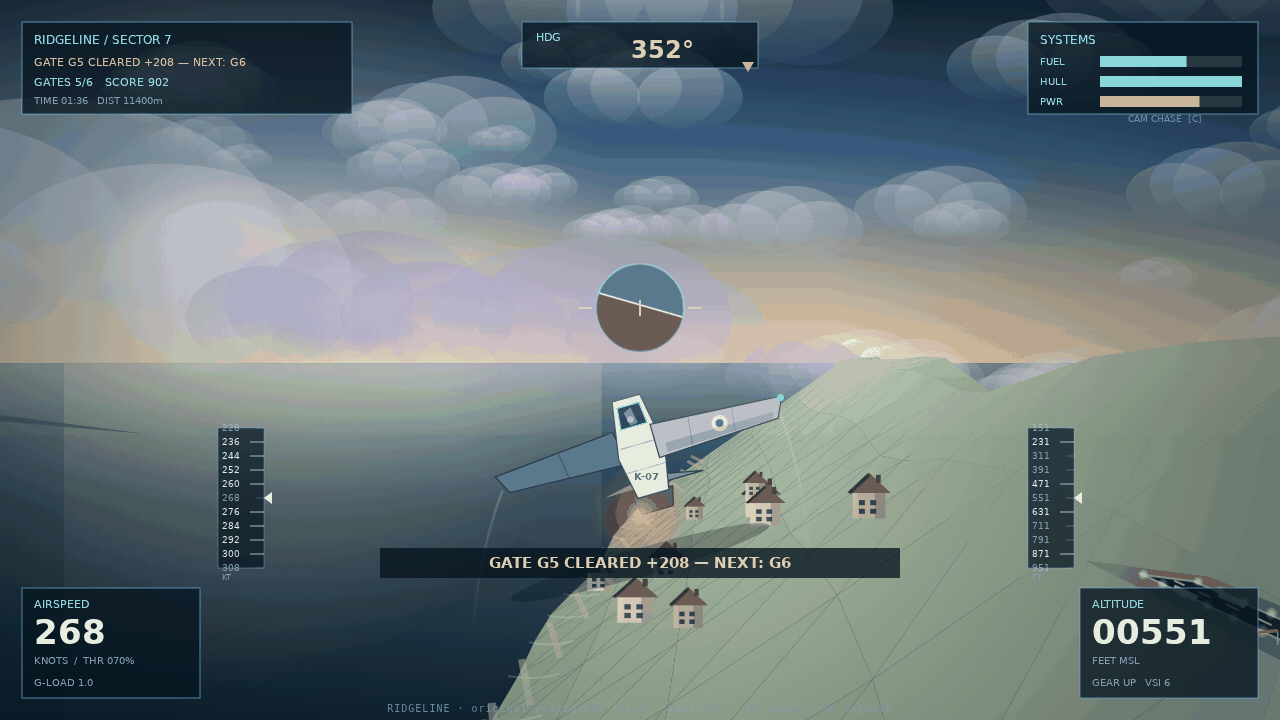
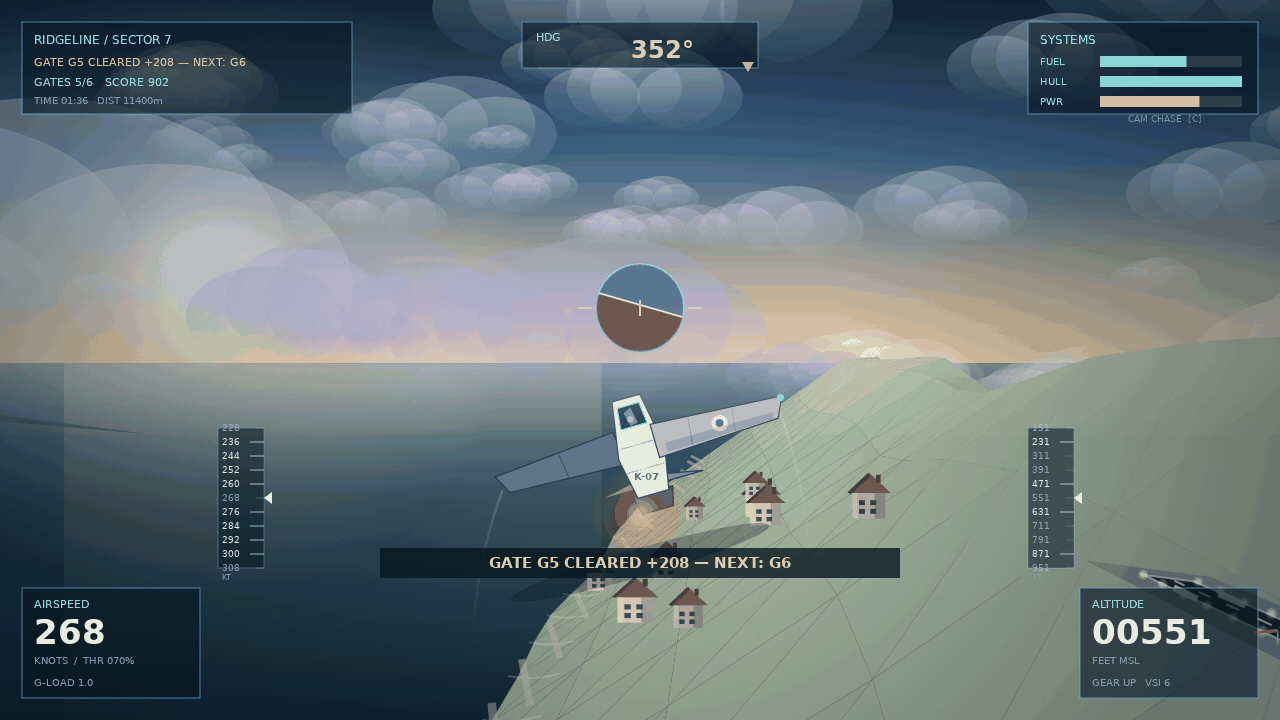
shots: sun bloom lebih kecil, footer disembunyikan, sudut gate digeser

diff --git a/game/src/atmosphere.js b/game/src/atmosphere.js
@@ -49,15 +49,15 @@ export function paintAtmosphereBack(ctx, project, width, height, cam, tod) {
   // Bloom and disc, added rather than painted so the sky brightens under it.
   ctx.save();
   ctx.globalCompositeOperation = 'lighter';
-  const bloom = ctx.createRadialGradient(sun.x, sun.y, 4, sun.x, sun.y, 420);
-  bloom.addColorStop(0, tod > 0.7 ? 'rgba(255,196,150,0.85)' : 'rgba(255,244,214,0.9)');
-  bloom.addColorStop(0.25, 'rgba(255,214,158,0.28)');
+  const bloom = ctx.createRadialGradient(sun.x, sun.y, 4, sun.x, sun.y, 330);
+  bloom.addColorStop(0, tod > 0.7 ? 'rgba(255,196,150,0.55)' : 'rgba(255,244,214,0.6)');
+  bloom.addColorStop(0.3, 'rgba(255,214,158,0.18)');
   bloom.addColorStop(1, 'rgba(255,200,140,0)');
   ctx.fillStyle = bloom;
-  ctx.fillRect(sun.x - 440, sun.y - 440, 880, 880);
+  ctx.fillRect(sun.x - 350, sun.y - 350, 700, 700);
   ctx.fillStyle = tod > 0.7 ? 'rgba(255,222,190,0.95)' : 'rgba(255,252,238,0.98)';
   ctx.beginPath();
-  ctx.arc(sun.x, sun.y, 26, 0, Math.PI * 2);
+  ctx.arc(sun.x, sun.y, 18, 0, Math.PI * 2);
   ctx.fill();
 
   // Streak glare while the sun sits near the centre of the frame.

diff --git a/game/src/hud.js b/game/src/hud.js
@@ -13,7 +13,7 @@ const FT_PER_M = 3.28084;
 const DEG = 180 / Math.PI;
 
 function panel(ctx, x, y, w, h) {
-  ctx.fillStyle = 'rgba(6,22,32,0.78)';
+  ctx.fillStyle = 'rgba(6,22,32,0.6)';
   ctx.strokeStyle = 'rgba(105,214,226,0.5)';
   ctx.lineWidth = 1.3;
   ctx.fillRect(x, y, w, h);
@@ -30,7 +30,7 @@ function label(ctx, text, x, y, size = 12, color = '#9fe8ef') {
 // A vertical strip of ticks around the current reading, with a fixed index
 // marker and a unit caption underneath.
 function tape(ctx, x, y, h, value, span, ticks, major, unit) {
-  ctx.fillStyle = 'rgba(6,22,32,0.72)';
+  ctx.fillStyle = 'rgba(6,22,32,0.55)';
   ctx.fillRect(x, y, 46, h);
   ctx.strokeStyle = 'rgba(105,214,226,0.4)';
   ctx.lineWidth = 1;
